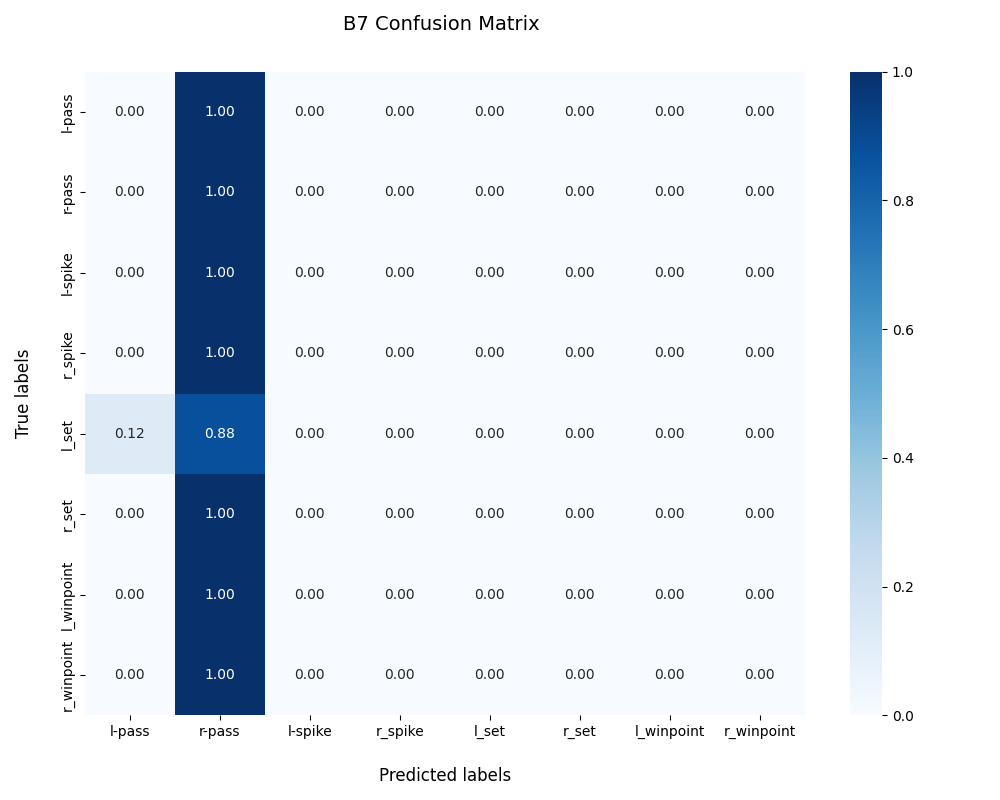
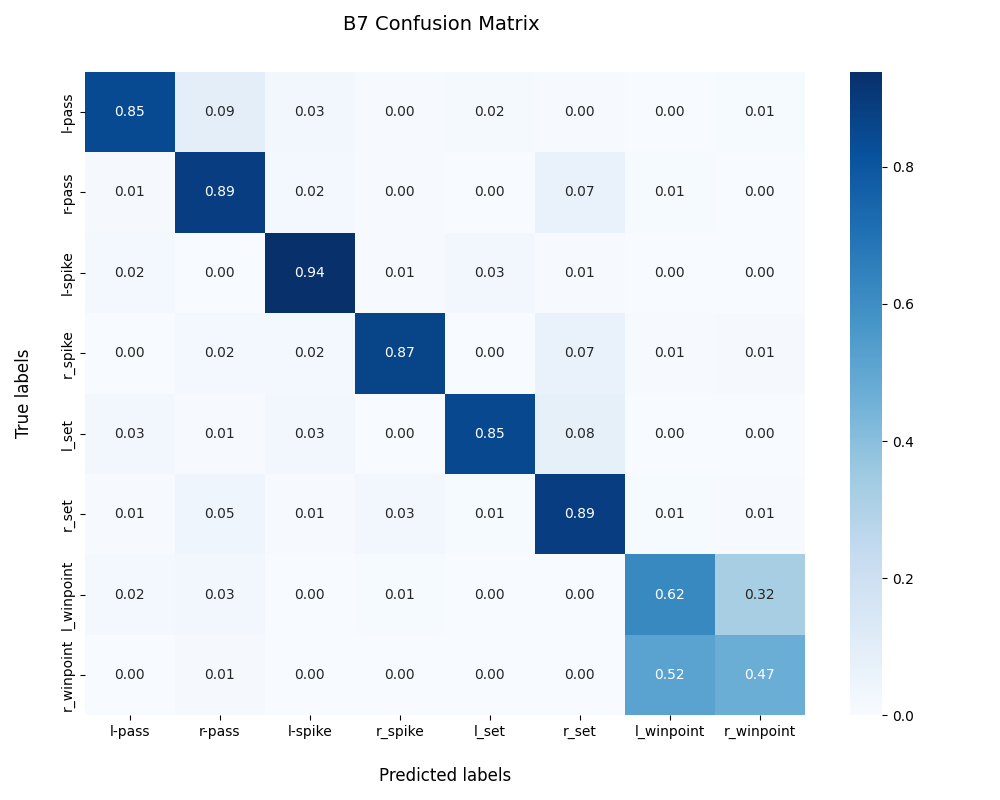
Results from Kaggle run for baseline 7 version 19

diff --git a/train/b7_train.py b/train/b7_train.py
@@ -45,13 +45,13 @@ num_group_actions = conf_dict['model']['num_group_actions']
 num_player_actions = conf_dict['model']['num_player_actions']
 
 # DataLoaders
-train_dataset=VolleyballPersonDataset(videos_root,annot_root,train_ids,one_frame=True,player_label=False,train=True)
+train_dataset=VolleyballPersonDataset(videos_root,annot_root,train_ids,one_frame=False,player_label=False,train=True)
 train_loader=DataLoader(train_dataset,batch_size=batch_size,shuffle=True,num_workers=num_workers,pin_memory=pin_memory)
 
-val_dataset=VolleyballPersonDataset(videos_root,annot_root,val_ids,one_frame=True,player_label=False,train=False)
+val_dataset=VolleyballPersonDataset(videos_root,annot_root,val_ids,one_frame=False,player_label=False,train=False)
 val_loader=DataLoader(val_dataset,batch_size=batch_size,shuffle=False,num_workers=num_workers,pin_memory=pin_memory)
 
-test_dataset=VolleyballPersonDataset(videos_root,annot_root,test_ids,one_frame=True,player_label=False,train=False)
+test_dataset=VolleyballPersonDataset(videos_root,annot_root,test_ids,one_frame=False,player_label=False,train=False)
 test_loader=DataLoader(test_dataset,batch_size=batch_size,shuffle=False,num_workers=num_workers,pin_memory=pin_memory)
 
 # Setup
@@ -60,13 +60,13 @@ device = torch.device("cuda" if torch.cuda.is_available() else "cpu")
 backbone_inner=B3_Player_Classifier(num_player_actions)
 
 backbone_outer=B5_Player_Classifier_Temporal(backbone_inner,num_player_actions)
-backbone_outer.load_state_dict(torch.load('checkpoints/b5_player_classifier_temporal_best_model_checkpoint.pth',map_location=device,weights_only=True)['model_state_dict'])
+backbone_outer.load_state_dict(torch.load('/kaggle/input/notebooks/myahiia/b5-player-classifier-temporal-train/Group-Activity-Recognition/checkpoints/b5_player_classifier_temporal_best_model_checkpoint.pth',map_location=device,weights_only=True)['model_state_dict'])
 
 model=B7(backbone_outer,num_group_actions)
 model=model.to(device)
 criterion = nn.CrossEntropyLoss()
+optimizer = torch.optim.AdamW(filter(lambda p: p.requires_grad, model.parameters()),lr= lr2)
 
-optimizer = torch.optim.AdamW(filter(lambda p: p.requires_grad, model.parameters()),lr= lr1)
 scheduler = torch.optim.lr_scheduler.ReduceLROnPlateau(optimizer, mode=conf_dict['scheduler']['mode'], factor=conf_dict['scheduler']['factor'], patience=conf_dict['scheduler']['patience'],threshold=conf_dict['scheduler']['threshold'])
 
 #  Kaggle use 2 GPU   
@@ -79,7 +79,7 @@ if torch.cuda.device_count() > 1:
 # Train
 os.makedirs('checkpoints',exist_ok=True)
 checkpoint_path='checkpoints/b7_best_model_checkpoint.pth'
-train(model,criterion,optimizer,scheduler,train_loader,val_loader,n_epoch,device,checkpoint_path,50,2,9)
+train(model,criterion,optimizer,scheduler,train_loader,val_loader,n_epoch,device,checkpoint_path,50,3,9)
 
 
 # Test

diff --git a/utils/person_level_dataset.py b/utils/person_level_dataset.py
@@ -61,10 +61,9 @@ class VolleyballPersonDataset(BaseDataset):
             for ind,box in enumerate(frame_boxes):
                 x1, y1, x2, y2 = box.box
                 crop=img.crop((x1, y1, x2, y2))
-                # for each player we need the same transormation along the 9 frames
-                # so we have unique seed for each player
-                random.seed(seed+ind)
-                torch.manual_seed(seed+ind)
+                
+                random.seed(seed)
+                torch.manual_seed(seed)
                 if self.train:
                     crop=self.train_transform(crop)
                 else:

diff --git a/utils/volleyball_annot_loader.py b/utils/volleyball_annot_loader.py
@@ -82,8 +82,8 @@ def load_volleyball_dataset(videos_root, annot_root):
     # annot_root -> volleyball_tracking_annotation
 
     # check for preloaded annotations
-    #annot_path='/kaggle/input/notebooks/myahiia/dataset-annot-loader/data/video_annot.pth'
-    annot_path = os.path.join('data','video_annot.pth')
+    annot_path='/kaggle/input/notebooks/myahiia/dataset-annot-loader/data/video_annot.pth'
+    #annot_path = os.path.join('data','video_annot.pth')
     if os.path.exists(annot_path):
         logger.info(f"Loading cached annotations from {annot_path}")
         videos_annot=torch.load(annot_path,weights_only=False)
